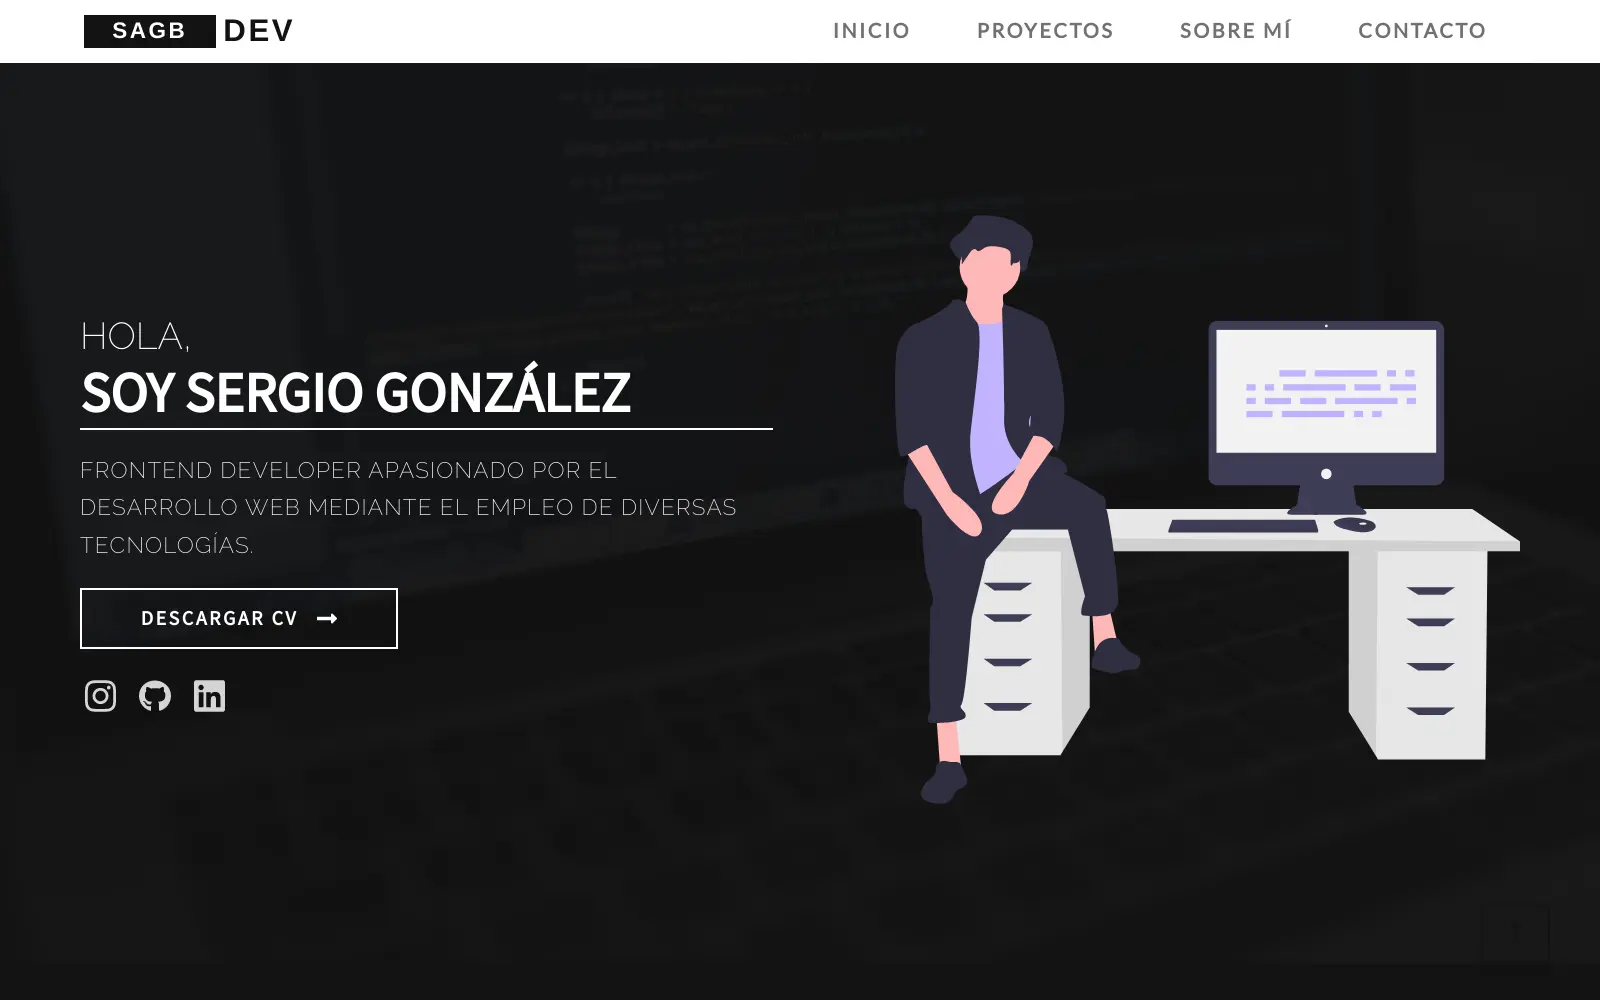
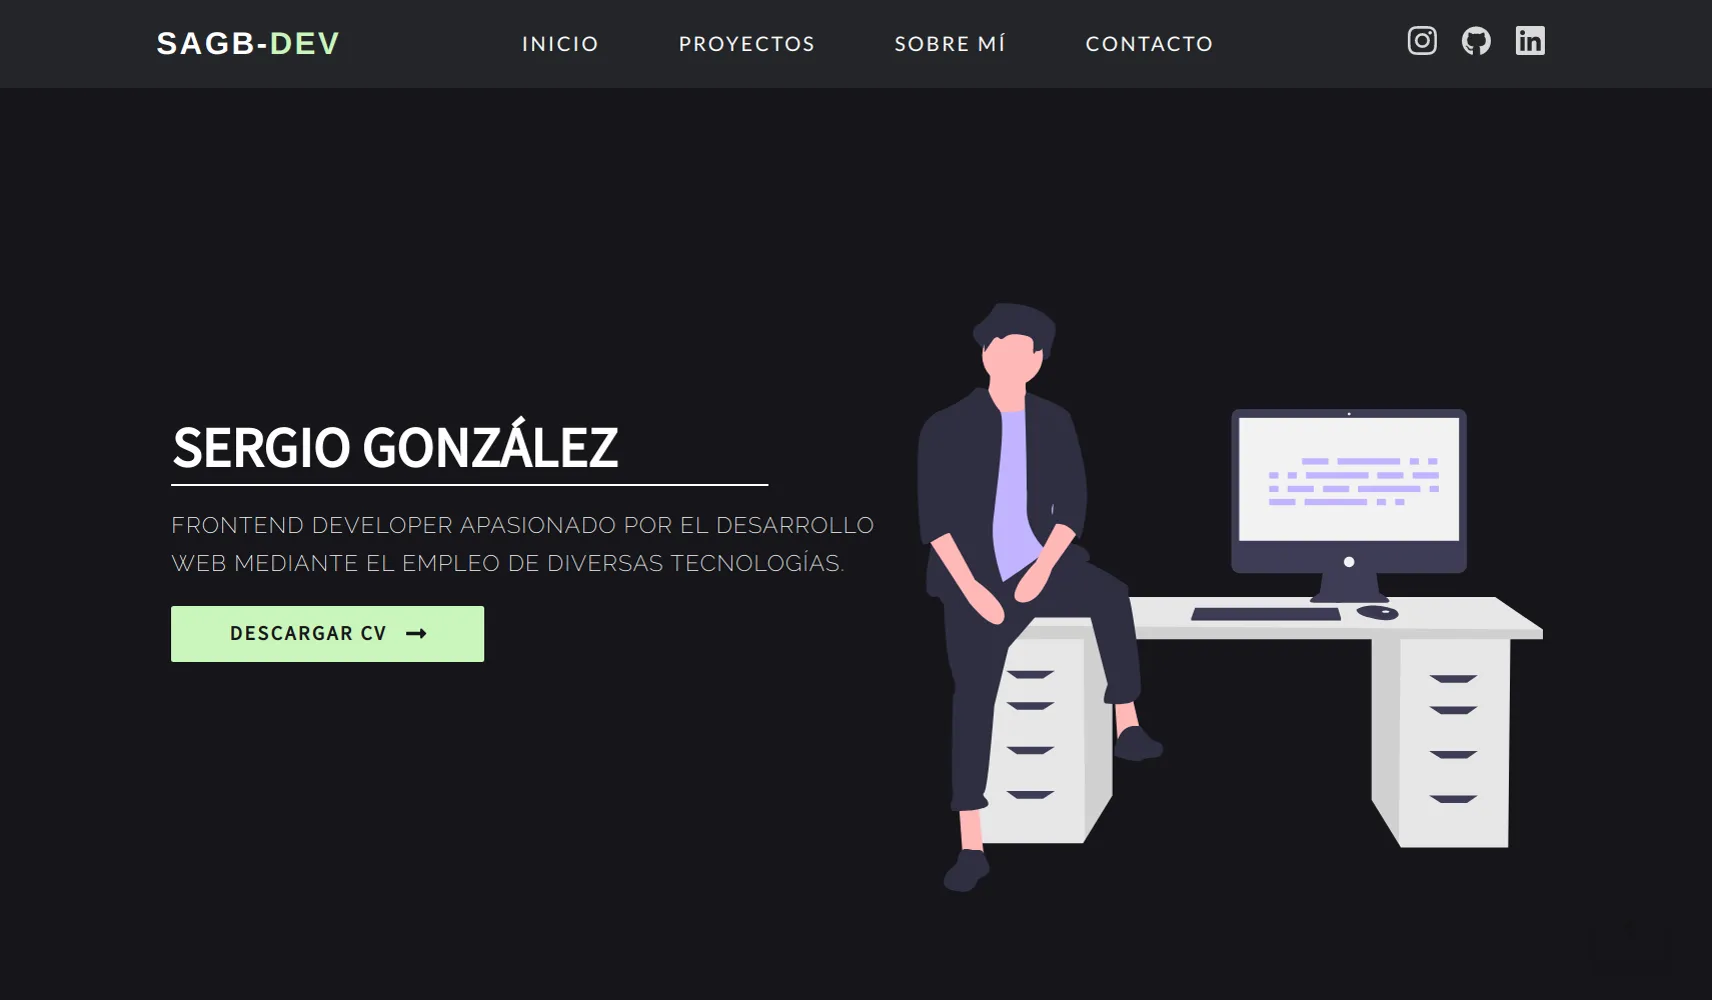
:lipstick: update styles

diff --git a/src/views/Projects.vue b/src/views/Projects.vue
@@ -166,7 +166,6 @@
                     </p>
                     <p class="tools">Herramientas:
                       <svg aria-hidden="true" focusable="false" data-prefix="fab" data-icon="css3-alt" class="svg-inline--fa fa-css3-alt fa-w-12" role="img" xmlns="http://www.w3.org/2000/svg" viewBox="0 0 384 512"><path fill="currentColor" d="M0 32l34.9 395.8L192 480l157.1-52.2L384 32H0zm313.1 80l-4.8 47.3L193 208.6l-.3.1h111.5l-12.8 146.6-98.2 28.7-98.8-29.2-6.4-73.9h48.9l3.2 38.3 52.6 13.3 54.7-15.4 3.7-61.6-166.3-.5v-.1l-.2.1-3.6-46.3L193.1 162l6.5-2.7H76.7L70.9 112h242.2z"></path></svg>
-                      <svg aria-hidden="true" focusable="false" data-prefix="fab" data-icon="html5" class="svg-inline--fa fa-html5 fa-w-12" role="img" xmlns="http://www.w3.org/2000/svg" viewBox="0 0 384 512"><path fill="currentColor" d="M0 32l34.9 395.8L191.5 480l157.6-52.2L384 32H0zm308.2 127.9H124.4l4.1 49.4h175.6l-13.6 148.4-97.9 27v.3h-1.1l-98.7-27.3-6-75.8h47.7L138 320l53.5 14.5 53.7-14.5 6-62.2H84.3L71.5 112.2h241.1l-4.4 47.7z"></path></svg>
                     </p>
                     <a v-animate-css.hover="'pulse'" class="btn" href="https://dh-cartoon-css.vercel.app/">
                     <svg aria-hidden="true" focusable="false" data-prefix="fas" data-icon="external-link-alt" class="svg-inline--fa fa-external-link-alt fa-w-16" role="img" xmlns="http://www.w3.org/2000/svg" viewBox="0 0 512 512"><path fill="currentColor" d="M432,320H400a16,16,0,0,0-16,16V448H64V128H208a16,16,0,0,0,16-16V80a16,16,0,0,0-16-16H48A48,48,0,0,0,0,112V464a48,48,0,0,0,48,48H400a48,48,0,0,0,48-48V336A16,16,0,0,0,432,320ZM488,0h-128c-21.37,0-32.05,25.91-17,41l35.73,35.73L135,320.37a24,24,0,0,0,0,34L157.67,377a24,24,0,0,0,34,0L435.28,133.32,471,169c15,15,41,4.5,41-17V24A24,24,0,0,0,488,0Z"></path></svg>
@@ -189,7 +188,7 @@ export default {
 <style scoped>
 .project-main {
   width: 100%;
-  background-color: #ffffff;
+  background-color: #242629;
 }
 
 .projects {
@@ -205,7 +204,7 @@ export default {
 
 h3 {
   font-family: 'Source Sans Pro', sans-serif;
-  color: var(--bg-color);
+  color: #E6E6E6;
   font-size: 40px;
   margin: 40px 20px;
 }
@@ -222,17 +221,17 @@ h3 {
 }
 
 .p-card {
-  background-color: #E6E6E6;
+  background-color: #16161A;
   color: white;
-  border: 2px solid rgba(255, 255, 255, 0.315);
+  /* border: 2px solid rgba(255, 255, 255, 0.315); */
   padding: 20px;
   display: flex;
   align-items: center;
   justify-content: space-around;
   flex-direction: column;
-  box-shadow: 0 8px 32px 0 rgba(206, 206, 206, 0.37);
+  /* box-shadow: 0 8px 32px 0 rgba(206, 206, 206, 0.37);
   backdrop-filter: blur( 2.5px );
-  -webkit-backdrop-filter: blur( 2.5px );
+  -webkit-backdrop-filter: blur( 2.5px ); */
   z-index: 0;
 }
 
@@ -252,23 +251,23 @@ figure {
   flex-direction: column;
   justify-content: center;
   align-items: flex-start;
+  color: white;
 }
 
 h4 {
-  color: #19191fcc;
   margin: 0;
   margin-top: 10px;
   font-size: 20px;
   font-weight: bold;
-  font-family: 'Lato';
+  font-family: 'Lato', sans-serif;
 }
 
 .p-card-desc p {
   text-align: justify;
-  color: #19191f8f;
+  color: rgba(255, 255, 255, 0.801);
   line-height: 25px;
-  font-family: 'Raleway', sans-serif;
-  font-weight: bold;
+  font-family: 'Lato', sans-serif;
+  font-weight: lighter;
 }
 
 .tools {
@@ -284,7 +283,7 @@ h4 {
 }
 
 .fa-vuejs {
-  color: #3eac7a;
+  color: #94ffd3;
 }
 
 .fa-css3-alt {
@@ -292,17 +291,16 @@ h4 {
 }
 
 .fa-js-square {
-  background-color: rgb(114, 114, 114);
-  color: #fff48c;
+  color: #fdf4a0;
 }
 
 .fa-html5 {
-  color: #ff7950;
+  color: #fd9c7f;
 
 }
 
 .fa-sass {
-  color: #ff5099;
+  color: #ff86b9;
 }
 
   .btn svg {
@@ -319,8 +317,8 @@ h4 {
     justify-self: flex-start;
     background-color: transparent;
     text-decoration: none;
-    border: 2px solid var(--bg-color);
-    color: var(--bg-color);
+    border: 2px solid white;
+    color: white;
     cursor: pointer;
     outline: none;
     letter-spacing: 2px;
@@ -329,7 +327,8 @@ h4 {
     font-family: 'Source Sans Pro', sans-serif;
   }
   .btn:hover {
-    color: var(--bg-color);
+    color: #94ffd3;
+    border: 2px solid #94ffd3;
   }
 
 @media only screen and (max-width: 1000px) {
@@ -338,6 +337,10 @@ h4 {
   }
   .projects__cards-container {
     grid-template-columns: repeat(1,1fr);
+  }
+  h3 {
+    margin: 40px 0;
+    width: 100%;
   }
 }
 

diff --git a/src/components/SpMenu.vue b/src/components/SpMenu.vue
@@ -11,13 +11,13 @@
       </div>
       <div v-show="showButton"
           @click="toggleMenu"
-          v-animate-css.click="'rotateIn'" class="nav__menu-responsive">
-          <svg aria-hidden="true" focusable="false" data-prefix="fas" data-icon="grip-lines" class="svg-inline--fa fa-grip-lines fa-w-16" role="img" xmlns="http://www.w3.org/2000/svg" viewBox="0 0 512 512"><path fill="currentColor" d="M496 288H16c-8.8 0-16 7.2-16 16v32c0 8.8 7.2 16 16 16h480c8.8 0 16-7.2 16-16v-32c0-8.8-7.2-16-16-16zm0-128H16c-8.8 0-16 7.2-16 16v32c0 8.8 7.2 16 16 16h480c8.8 0 16-7.2 16-16v-32c0-8.8-7.2-16-16-16z"></path></svg>
+          v-animate-css.click="'flipInY'" class="nav__menu-responsive">
+          <svg width="24" height="24" viewBox="0 0 24 24" fill="none" xmlns="http://www.w3.org/2000/svg"><path d="M7 3C5.34315 3 4 4.34315 4 6H20C20 4.34315 18.6569 3 17 3H7Z" fill="currentColor" /><path d="M7 11C5.34315 11 4 9.65685 4 8H20C20 9.65685 18.6569 11 17 11H7Z" fill="currentColor" /><path d="M7 13C5.34315 13 4 14.3431 4 16H20C20 14.3431 18.6569 13 17 13H7Z" fill="currentColor" /><path d="M7 21C5.34315 21 4 19.6569 4 18H20C20 19.6569 18.6569 21 17 21H7Z" fill="currentColor" /></svg>
       </div>
       <div v-show="!showButton"
           @click="toggleMenu"
-          v-animate-css.click="'rotateIn'" class="nav__menu-responsive">
-          <svg aria-hidden="true" focusable="false" data-prefix="fas" data-icon="not-equal" class="svg-inline--fa fa-not-equal fa-w-14" role="img" xmlns="http://www.w3.org/2000/svg" viewBox="0 0 448 512"><path fill="currentColor" d="M416 208c17.67 0 32-14.33 32-32v-32c0-17.67-14.33-32-32-32h-23.88l51.87-66.81c5.37-7.02 4.04-17.06-2.97-22.43L415.61 3.3c-7.02-5.38-17.06-4.04-22.44 2.97L311.09 112H32c-17.67 0-32 14.33-32 32v32c0 17.67 14.33 32 32 32h204.56l-74.53 96H32c-17.67 0-32 14.33-32 32v32c0 17.67 14.33 32 32 32h55.49l-51.87 66.81c-5.37 7.01-4.04 17.05 2.97 22.43L64 508.7c7.02 5.38 17.06 4.04 22.43-2.97L168.52 400H416c17.67 0 32-14.33 32-32v-32c0-17.67-14.33-32-32-32H243.05l74.53-96H416z"></path></svg>
+          v-animate-css.click="'flipInY'" class="nav__menu-responsive">
+          <svg width="24" height="24" viewBox="0 0 24 24" fill="none" xmlns="http://www.w3.org/2000/svg"><path d="M16.3956 7.75734C16.7862 8.14786 16.7862 8.78103 16.3956 9.17155L13.4142 12.153L16.0896 14.8284C16.4802 15.2189 16.4802 15.8521 16.0896 16.2426C15.6991 16.6331 15.0659 16.6331 14.6754 16.2426L12 13.5672L9.32458 16.2426C8.93405 16.6331 8.30089 16.6331 7.91036 16.2426C7.51984 15.8521 7.51984 15.2189 7.91036 14.8284L10.5858 12.153L7.60436 9.17155C7.21383 8.78103 7.21383 8.14786 7.60436 7.75734C7.99488 7.36681 8.62805 7.36681 9.01857 7.75734L12 10.7388L14.9814 7.75734C15.372 7.36681 16.0051 7.36681 16.3956 7.75734Z" fill="currentColor" /><path fill-rule="evenodd" clip-rule="evenodd" d="M4 1C2.34315 1 1 2.34315 1 4V20C1 21.6569 2.34315 23 4 23H20C21.6569 23 23 21.6569 23 20V4C23 2.34315 21.6569 1 20 1H4ZM20 3H4C3.44772 3 3 3.44772 3 4V20C3 20.5523 3.44772 21 4 21H20C20.5523 21 21 20.5523 21 20V4C21 3.44772 20.5523 3 20 3Z" fill="currentColor" /></svg>
       </div>
       <sp-links2 v-on:closeLinks="toggleMenu" v-show="!showButton"/>
     </div>
@@ -48,13 +48,13 @@ export default {
 
 <style scoped>
 #nav_bg {
-  background-color: #1d1d1d;
+  background-color: #242629;
 }
 
 #nav {
   width: 90%;
   margin: auto;
-  height: 60px;
+  height: 70px;
   display: flex;
   align-items: center;
   justify-content: space-around;
@@ -104,7 +104,7 @@ h3 {
     width: 100%;
     position: fixed;
     height: 60px;
-    background-color: #1d1d1d;
+    background-color: #242629;
     justify-content: space-between;
   }
   h2 {

diff --git a/src/views/Home.vue b/src/views/Home.vue
@@ -27,8 +27,8 @@
               </div>
           </section>
       </div>
-      <svg id="bottom-decoration" xmlns="http://www.w3.org/2000/svg" viewBox="0 0 1440 320"><path fill="#131313" fill-opacity="1" d="M0,64L80,69.3C160,75,320,85,480,112C640,139,800,181,960,186.7C1120,192,1280,160,1360,144L1440,128L1440,0L1360,0C1280,0,1120,0,960,0C800,0,640,0,480,0C320,0,160,0,80,0L0,0Z"></path></svg>
-      <!-- <svg id="bottom-decoration" xmlns="http://www.w3.org/2000/svg" viewBox="0 0 1440 320"><path fill="#131313" fill-opacity="1" d="M0,64L80,53.3C160,43,320,21,480,53.3C640,85,800,171,960,192C1120,213,1280,171,1360,149.3L1440,128L1440,0L1360,0C1280,0,1120,0,960,0C800,0,640,0,480,0C320,0,160,0,80,0L0,0Z"></path></svg> -->
+      <svg id="bottom-decoration" xmlns="http://www.w3.org/2000/svg" viewBox="0 0 1440 320"><path fill="#16161A" fill-opacity="1" d="M0,64L80,69.3C160,75,320,85,480,112C640,139,800,181,960,186.7C1120,192,1280,160,1360,144L1440,128L1440,0L1360,0C1280,0,1120,0,960,0C800,0,640,0,480,0C320,0,160,0,80,0L0,0Z"></path></svg>
+      <!-- <svg id="bottom-decoration" xmlns="http://www.w3.org/2000/svg" viewBox="0 0 1440 320"><path fill="#16161A" fill-opacity="1" d="M0,64L80,53.3C160,43,320,21,480,53.3C640,85,800,171,960,192C1120,213,1280,171,1360,149.3L1440,128L1440,0L1360,0C1280,0,1120,0,960,0C800,0,640,0,480,0C320,0,160,0,80,0L0,0Z"></path></svg> -->
       <about-me/>
       <projects/>
     </div>
@@ -56,7 +56,6 @@ export default {
 
 .main {
   width: 100%;
-  background-image: url(../assets/bg.webp);
   background-repeat: no-repeat;
   background-size: cover;
   background-position: center;
@@ -64,12 +63,13 @@ export default {
 
 .main__bg {
   width: 100%;
-  background-color: rgba(19, 19, 19, 0.986)
+  background-color: #16161A;
 }
 
 .home__svg svg {
   width: 500px;
   height: 500px;
+  margin-top: 100px;
 }
 
 .home__desc {
@@ -91,12 +91,6 @@ export default {
 
 h1 {
   font-family: 'Source Sans Pro', sans-serif;
-  margin: 0;
-}
-
-h4 {
-  font-weight: lighter;
-  font-family: 'Raleway', sans-serif;
   margin: 0;
 }
 

diff --git a/src/components/SpLinks.vue b/src/components/SpLinks.vue
@@ -1,7 +1,7 @@
 <template>
   <section class="nav__links">
 
-        <router-link r-linkv-animate-css.hover="'pulse'" to="/"
+        <router-link v-animate-css.hover="'pulse'" to="/"
           @click.native="scrollToId('goInicio')">
           Inicio
         </router-link>
@@ -47,7 +47,7 @@ export default {
 }
 
 #nav a:hover {
-  color: #C1B3FF;
+  color: #94ffd3;
 }
 
 .nav__links {

diff --git a/src/App.vue b/src/App.vue
@@ -26,7 +26,7 @@ export default {
 <style>
 /* --- --- -- COLORS -- --- --- */
 :root {
-  --bg-color: #131313;
+  --bg-color: #16161A;
   --in-color:  rgba(212, 212, 255, 0.035);
 }
 
@@ -35,7 +35,7 @@ html {
 }
 
 body {
-  background-color: #3F3F3F;
+  background-color: #242629;
   margin: 0;
   padding: 0;
   box-sizing: border-box;

diff --git a/src/components/SpLinks2.vue b/src/components/SpLinks2.vue
@@ -1,6 +1,6 @@
 <template>
     <section
-          @click="toggleLinks" class="nav__links2 animate__animated animate__fadeInLeft">
+          @click="toggleLinks" class="nav__links2 animate__animated animate__slideInRight">
 
         <router-link v-animate-css.hover="'pulse'" to="/"
           @click.native="scrollToId('goInicio')">

diff --git a/src/components/SpSocialBtn.vue b/src/components/SpSocialBtn.vue
@@ -35,7 +35,7 @@ a {
   color: rgba(255, 255, 255, 0.822);
 }
 a:hover {
-  color: #C1B3FF;
+  color: #94ffd3;
 }
 .social__btn {
   display: flex;
